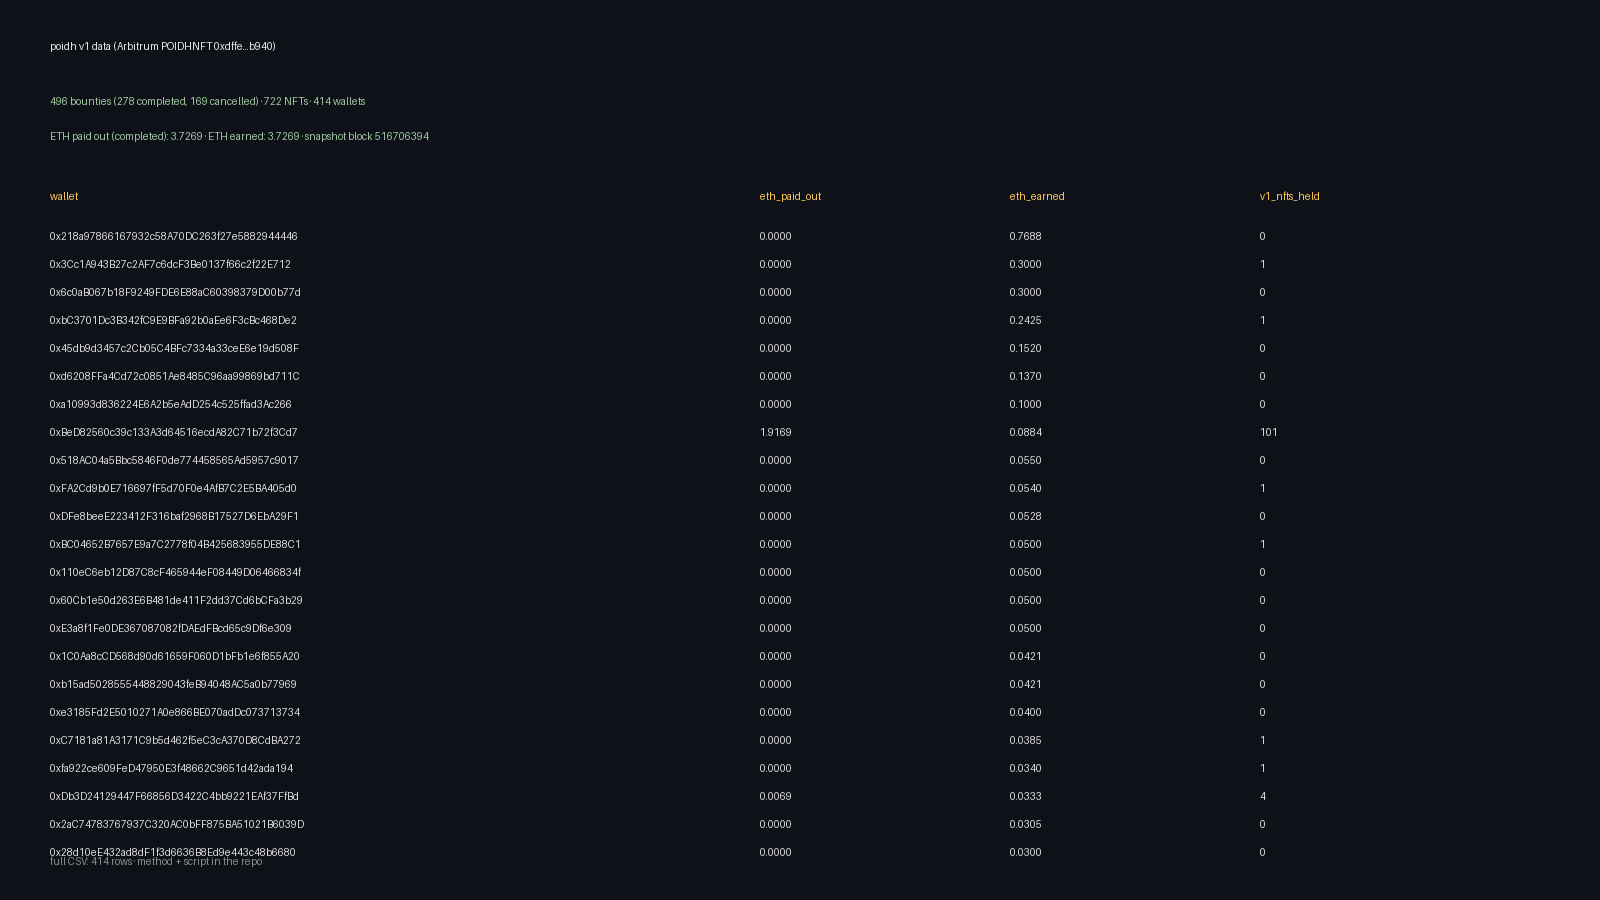
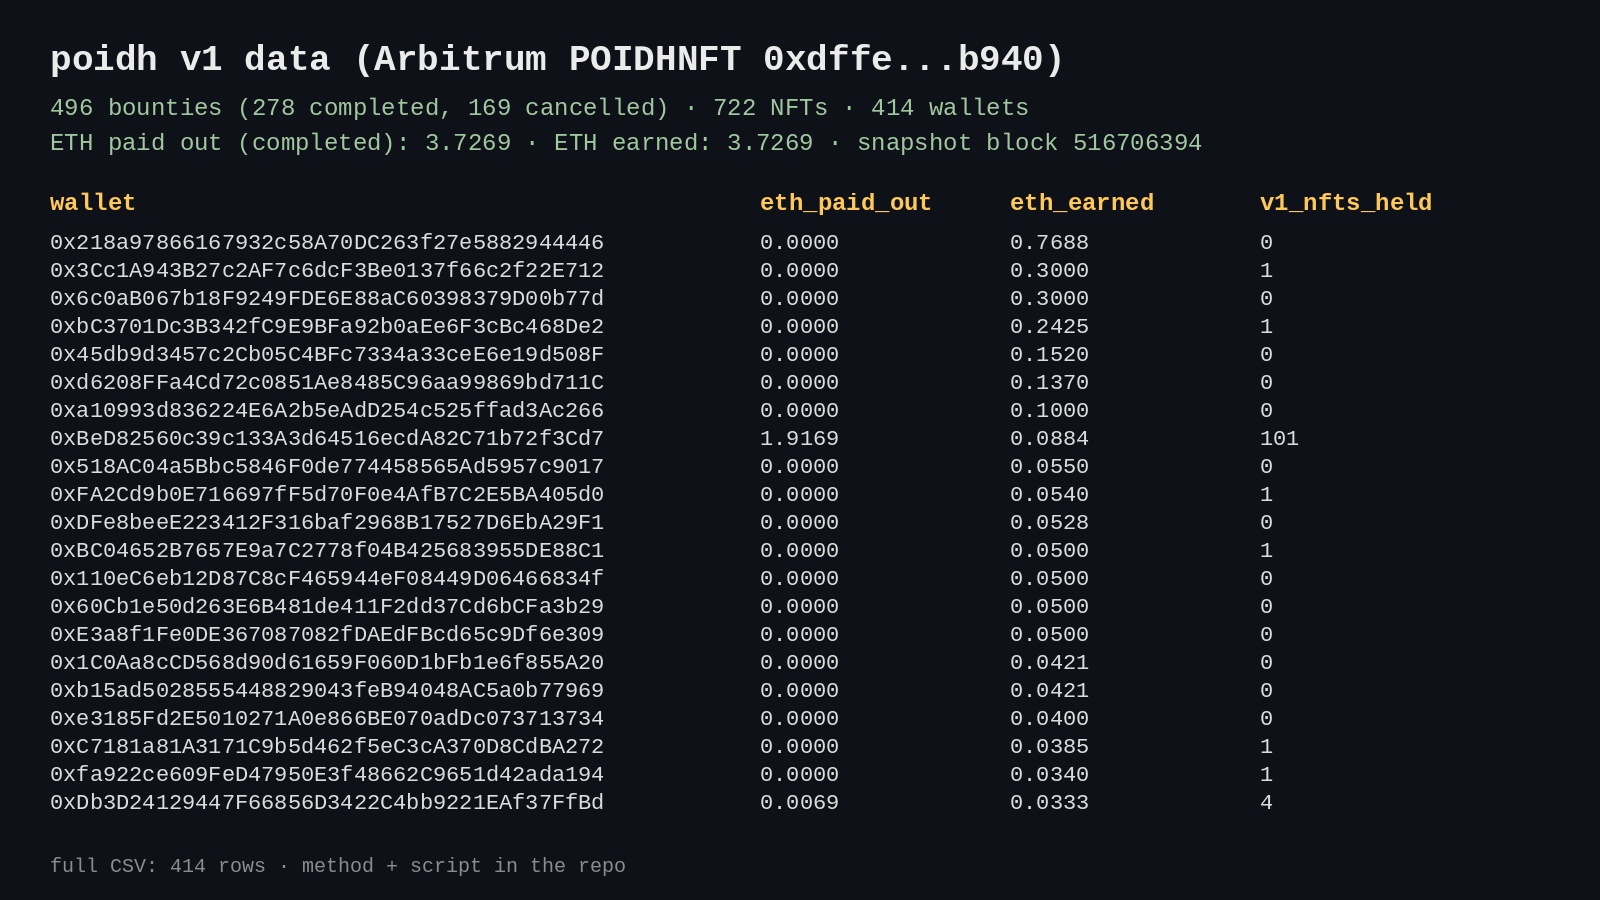
preview: readable font

diff --git a/render.py b/render.py
@@ -7,7 +7,7 @@ summary = json.load(open("summary.json"))
 W, H = 1600, 900
 im = Image.new("RGB", (W, H), (14, 17, 23)); d = ImageDraw.Draw(im)
 def font(sz, bold=False):
-    for p in (["/usr/share/fonts/truetype/dejavu/DejaVuSansMono-Bold.ttf"] if bold else []) + ["/usr/share/fonts/truetype/dejavu/DejaVuSansMono.ttf"]:
+    for p in (["/usr/share/fonts/truetype/liberation/LiberationMono-Bold.ttf"] if bold else []) + ["/usr/share/fonts/truetype/liberation/LiberationMono-Regular.ttf"]:
         try: return ImageFont.truetype(p, sz)
         except Exception: pass
     return ImageFont.load_default()
@@ -19,7 +19,7 @@ hdr = ["wallet", "eth_paid_out", "eth_earned", "v1_nfts_held"]
 xs = [50, 760, 1010, 1260]
 for x, h in zip(xs, hdr): d.text((x, y), h, fill=(255, 200, 90), font=font(24, True))
 y += 40
-for r in rows[1:24]:
+for r in rows[1:22]:
     vals = [r[0], f"{float(r[1]):.4f}", f"{float(r[2]):.4f}", r[3]]
     for x, v in zip(xs, vals): d.text((x, y), v, fill=(220, 220, 220), font=font(22))
     y += 28
